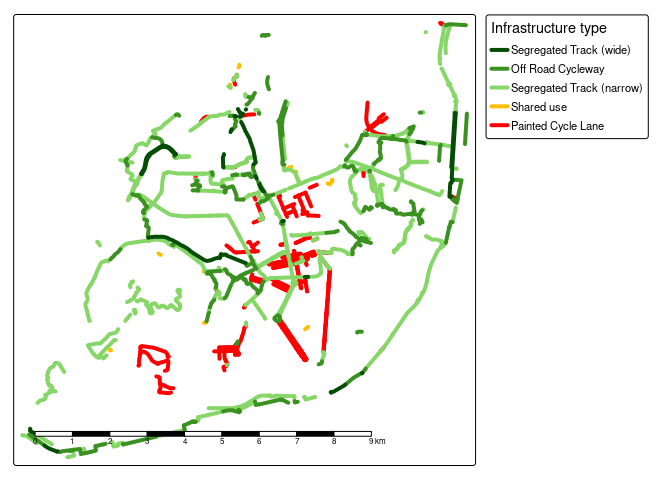
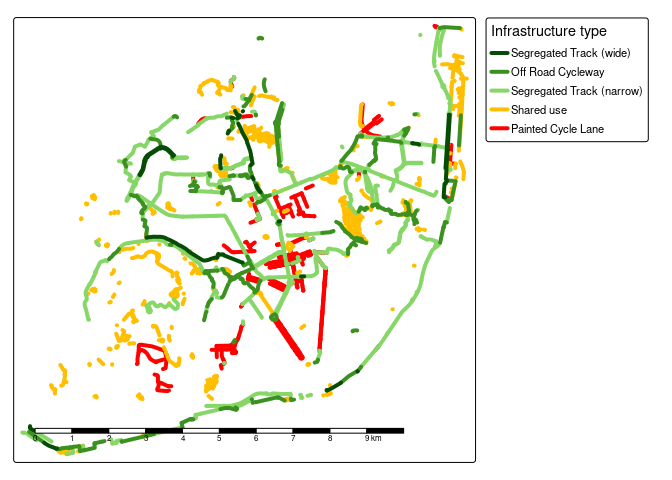
Finish categorisation, for now

diff --git a/README.md b/README.md
@@ -43,12 +43,14 @@ cycle_net = distance_to_road(cycle_net, drive_net)
 cycle_net = classify_cycle_infrastructure(cycle_net)
 table(cycle_net$detailed_segregation)
 #> 
-#>        Level track  Off Road Cycleway Painted Cycle Lane 
-#>                 14                  4                  1
+#>          Level track Mixed Traffic Street    Off Road Cycleway 
+#>                   13                    1                    4 
+#>   Painted Cycle Lane 
+#>                    1
 table(cycle_net$cycle_segregation)
 #> 
 #>   Segregated Track (wide)         Off Road Cycleway Segregated Track (narrow) 
-#>                         6                         3                         8 
+#>                         6                         4                         7 
 #>                Shared use        Painted Cycle Lane 
 #>                         1                         1
 ```
@@ -65,12 +67,7 @@ m
 ## Leeds example
 
 ``` r
-leeds_zb = zonebuilder::zb_zone("Leeds")
-leeds_6km = leeds_zb |>
-  filter(circle_id <= 3) |>
-  sf::st_union()
-osm = get_travel_network("Leeds", boundary = leeds_6km, boundary_type = "clipsrc")
-#> 0...10...20...30...40...50...60...70...80...90...100 - done.
+osm = get_travel_network("Leeds")
 #> Reading layer `lines' from data source `/home/robin/data/osm/bbbike_Leeds.gpkg' using driver `GPKG'
 #> Simple feature collection with 39330 features and 45 fields
 #> Geometry type: MULTILINESTRING
@@ -80,56 +77,7 @@ osm = get_travel_network("Leeds", boundary = leeds_6km, boundary_type = "clipsrc
 cycle_net = get_cycling_network(osm)
 drive_net = get_driving_network(osm)
 cycle_net = distance_to_road(cycle_net, drive_net)
-names(cycle_net)
-#>  [1] "osm_id"                    "name"                     
-#>  [3] "highway"                   "man_made"                 
-#>  [5] "maxspeed"                  "oneway"                   
-#>  [7] "bicycle"                   "cycleway"                 
-#>  [9] "cycleway_left"             "cycleway_right"           
-#> [11] "cycleway_both"             "cycleway_left_bicycle"    
-#> [13] "cycleway_right_bicycle"    "cycleway_both_bicycle"    
-#> [15] "cycleway_left_segregated"  "cycleway_right_segregated"
-#> [17] "cycleway_both_segregated"  "cycleway_surface"         
-#> [19] "cycleway_width"            "cycleway_est_width"       
-#> [21] "cycleway_buffered_lane"    "lanes"                    
-#> [23] "lanes_both_ways"           "lanes_forward"            
-#> [25] "lanes_backward"            "lanes_bus"                
-#> [27] "lanes_bus_conditional"     "lit"                      
-#> [29] "width"                     "est_width"                
-#> [31] "segregated"                "foot"                     
-#> [33] "path"                      "sidewalk"                 
-#> [35] "footway"                   "service"                  
-#> [37] "surface"                   "tracktype"                
-#> [39] "smoothness"                "access"                   
-#> [41] "z_order"                   "other_tags"               
-#> [43] "geometry"                  "distance_to_road"
 cycle_net = classify_cycle_infrastructure(cycle_net)
-names(cycle_net)
-#>  [1] "osm_id"                      "name"                       
-#>  [3] "highway"                     "man_made"                   
-#>  [5] "maxspeed"                    "oneway"                     
-#>  [7] "bicycle"                     "cycleway_chars"             
-#>  [9] "cycleway"                    "cycleway_left"              
-#> [11] "cycleway_right"              "cycleway_both"              
-#> [13] "cycleway_left_bicycle"       "cycleway_right_bicycle"     
-#> [15] "cycleway_both_bicycle"       "cycleway_left_segregated"   
-#> [17] "cycleway_right_segregated"   "cycleway_both_segregated"   
-#> [19] "cycleway_surface"            "cycleway_width"             
-#> [21] "cycleway_est_width"          "cycleway_buffered_lane"     
-#> [23] "lanes"                       "lanes_both_ways"            
-#> [25] "lanes_forward"               "lanes_backward"             
-#> [27] "lanes_bus"                   "lanes_bus_conditional"      
-#> [29] "lit"                         "width"                      
-#> [31] "est_width"                   "segregated"                 
-#> [33] "foot"                        "path"                       
-#> [35] "sidewalk"                    "footway"                    
-#> [37] "service"                     "surface"                    
-#> [39] "tracktype"                   "smoothness"                 
-#> [41] "access"                      "z_order"                    
-#> [43] "other_tags"                  "distance_to_road"           
-#> [45] "detailed_segregation"        "cycle_pedestrian_separation"
-#> [47] "geometry"                    "width_clean"                
-#> [49] "cycle_segregation"
 m = plot_osm_tmap(cycle_net)
 m
 ```
@@ -258,3 +206,28 @@ m
 ```
 
 ![](man/figures/README-london-1.png)<!-- -->
+
+## Cambridge
+
+``` r
+cambridge = zonebuilder::zb_zone("Cambridge")
+cambridge = sf::st_union(cambridge) |>
+  sf::st_make_valid()
+osm = get_travel_network("Cambridge", boundary = cambridge, boundary_type = "clipsrc")
+#> 0...10...20...30...40...50...60...70...80...90...100 - done.
+#> Reading layer `lines' from data source 
+#>   `/home/robin/data/osm/bbbike_Cambridge.gpkg' using driver `GPKG'
+#> Simple feature collection with 49665 features and 45 fields
+#> Geometry type: MULTILINESTRING
+#> Dimension:     XY
+#> Bounding box:  xmin: -0.0399984 ymin: 52.12 xmax: 0.319972 ymax: 52.28
+#> Geodetic CRS:  WGS 84
+cycle_net = get_cycling_network(osm)
+drive_net = get_driving_network(osm)
+cycle_net = distance_to_road(cycle_net, drive_net)
+cycle_net = classify_cycle_infrastructure(cycle_net)
+m = plot_osm_tmap(cycle_net)
+m
+```
+
+![](man/figures/README-cambridge-1.png)<!-- -->
